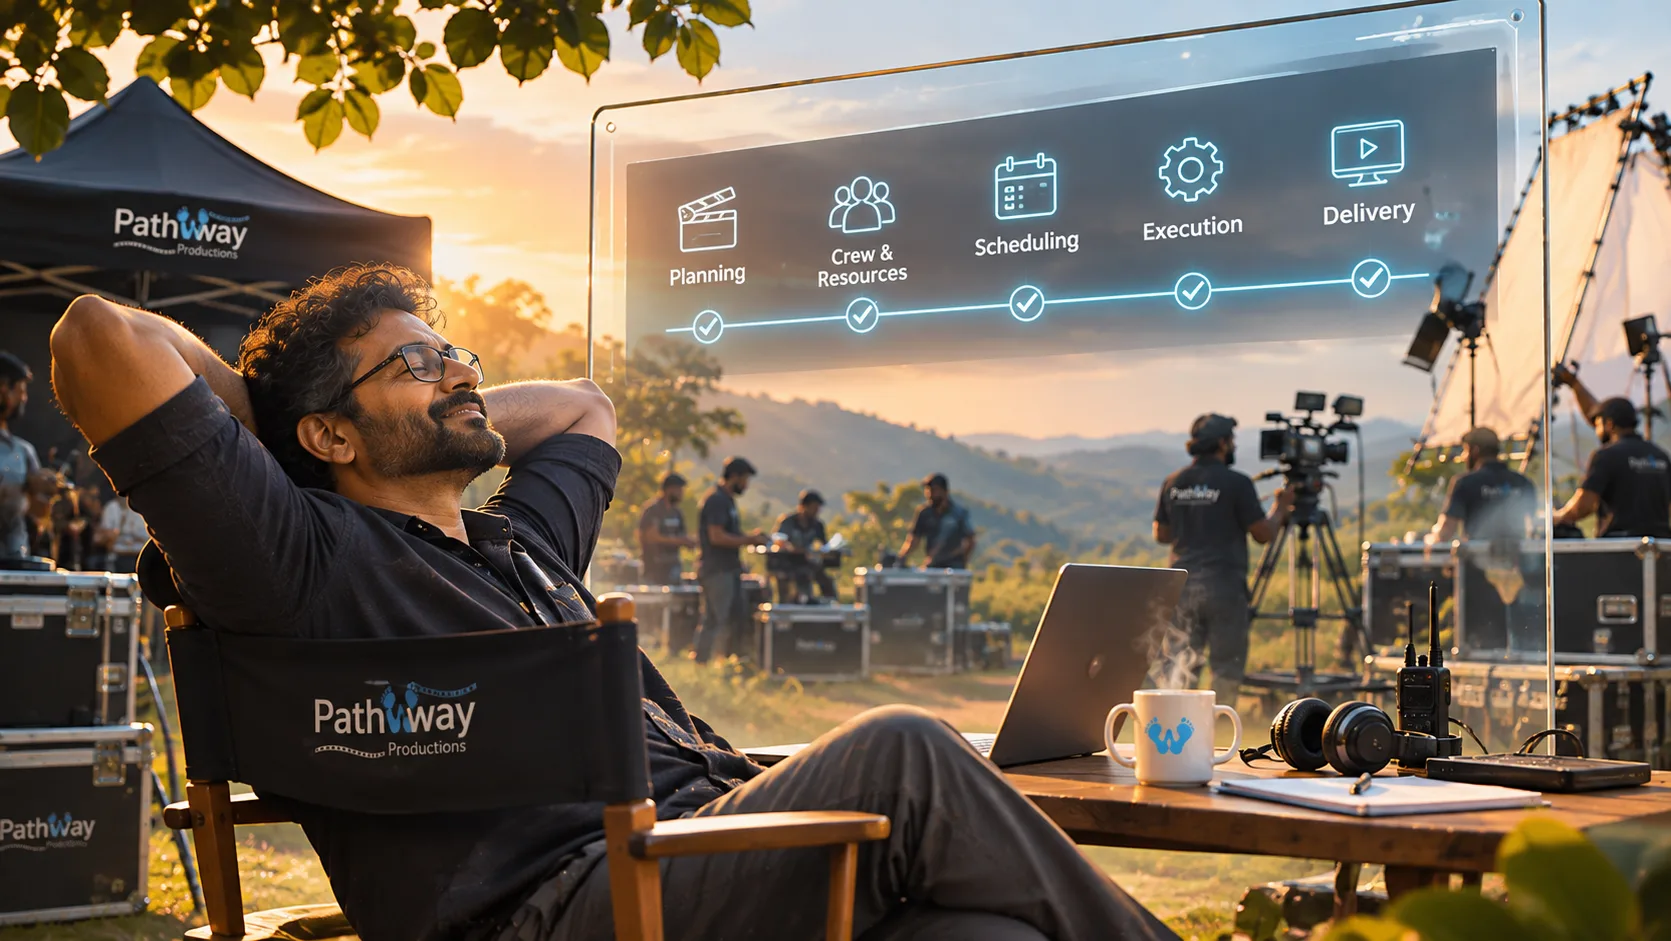
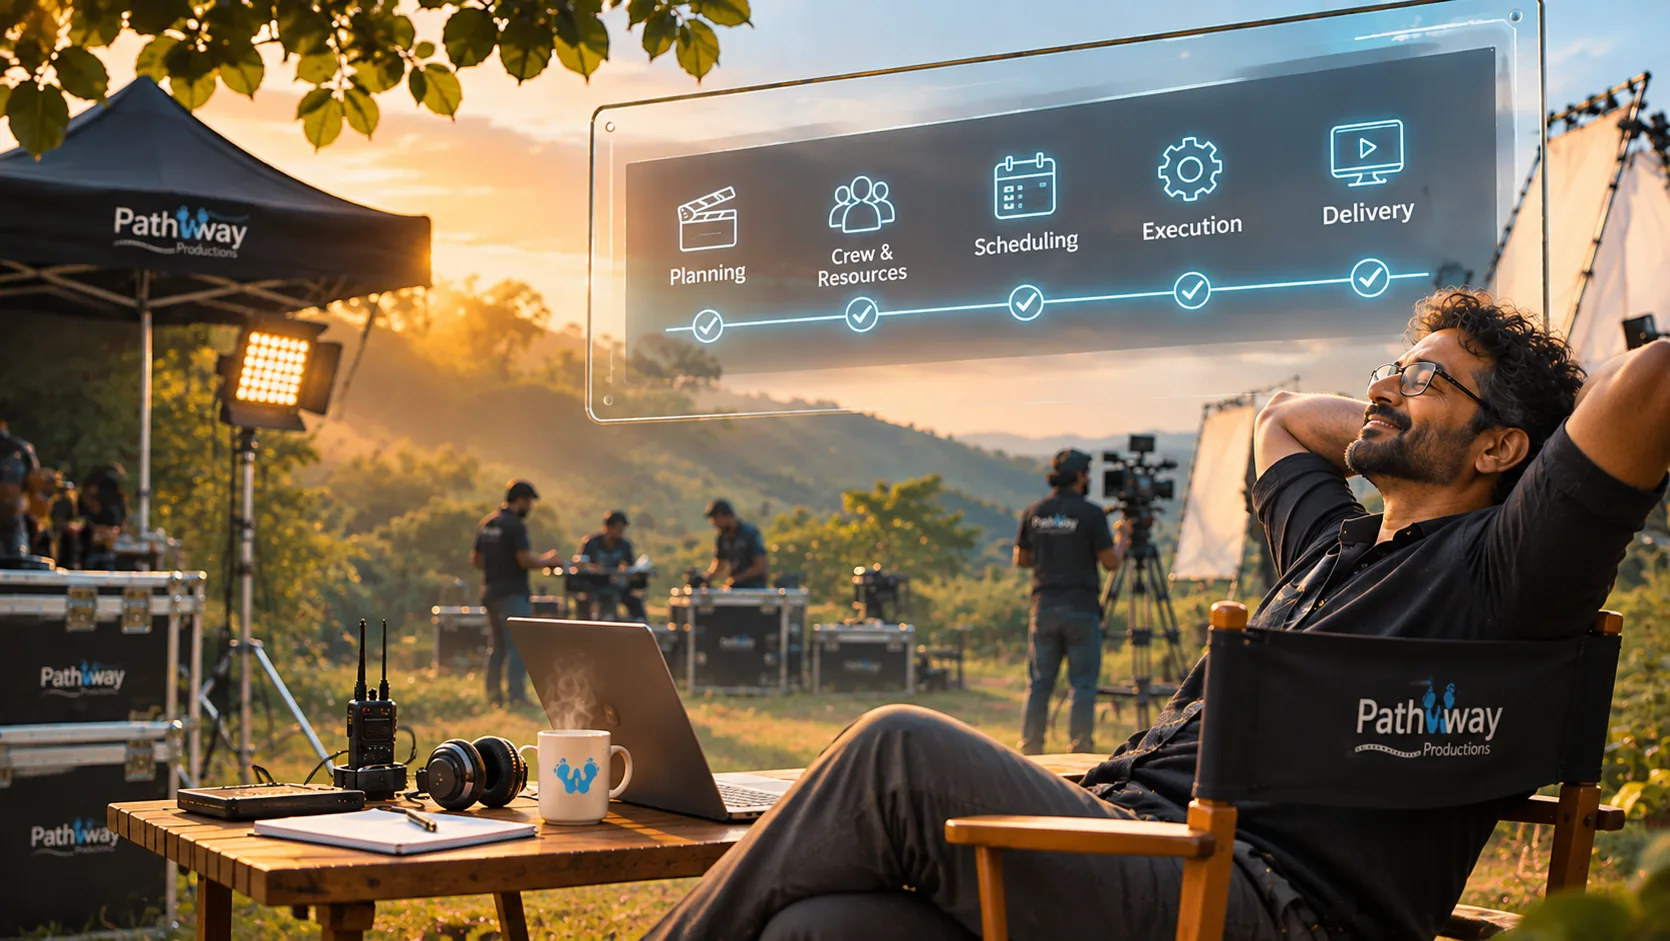
Swap in refreshed Crew & Equipment and Production Management heroes
Replaces the hero photos added in the previous commit with updated
versions:

- Crew & Equipment: now shows the crew filming an outdoor cafe scene
  at sunset (guests at a table, coffee menu board) rather than a plain
  hillside backdrop.
- Production Management: a refined version of the same
  director's-chair + process-graphic composition.

Claude-Session: https://claude.ai/code/session_01W3kK5m2Q29tB4HTEXUdjWz

diff --git a/production-services-india/crew-equipment/index.html b/production-services-india/crew-equipment/index.html
@@ -134,7 +134,7 @@
       <picture>
         <source srcset="../../assets/images/pathway-crew-equipment-hero.webp" type="image/webp">
         <img src="../../assets/images/pathway-crew-equipment-hero.jpg"
-             alt="A Pathway Productions crew filming on location at sunset in the hills, with branded flight cases, a camera on a tripod, a boom operator and a bounce board"
+             alt="A Pathway Productions crew filming an outdoor café scene at sunset, with a camera on a tripod, a boom operator, branded flight cases, and guests seated at a table beside a coffee menu board"
              style="object-position:50% 40%;"
              fetchpriority="high" loading="eager">
       </picture>
